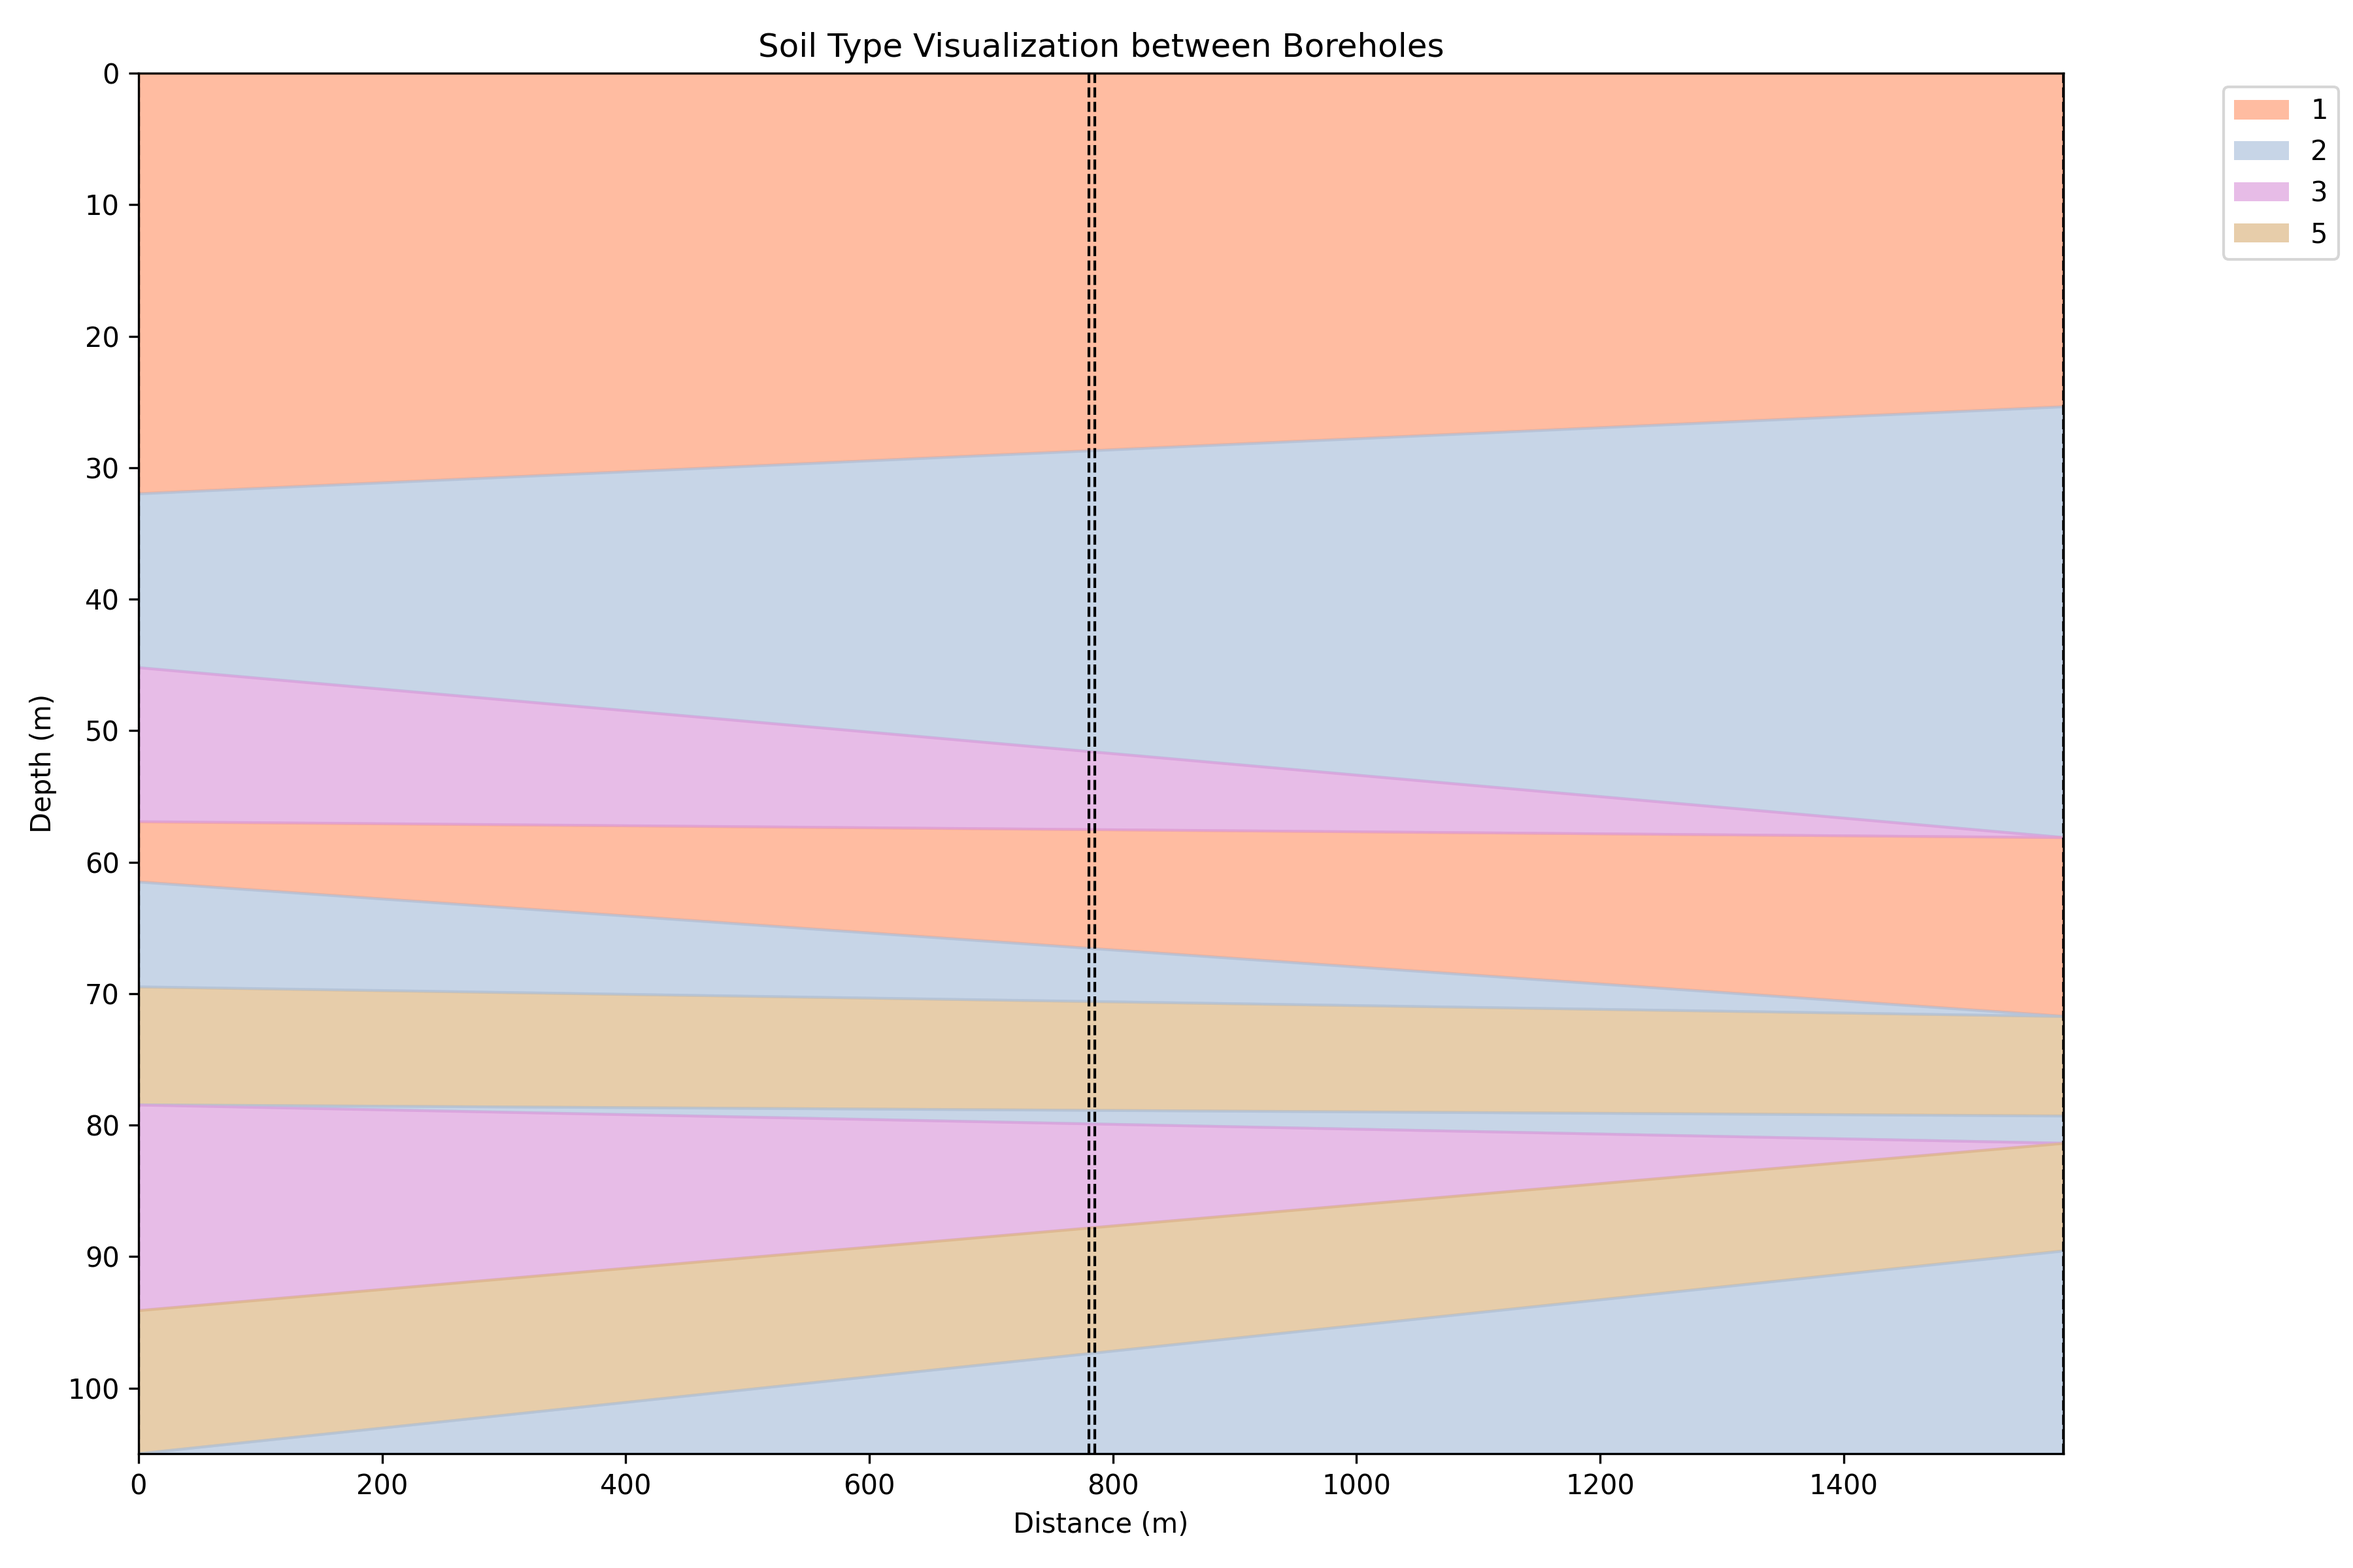
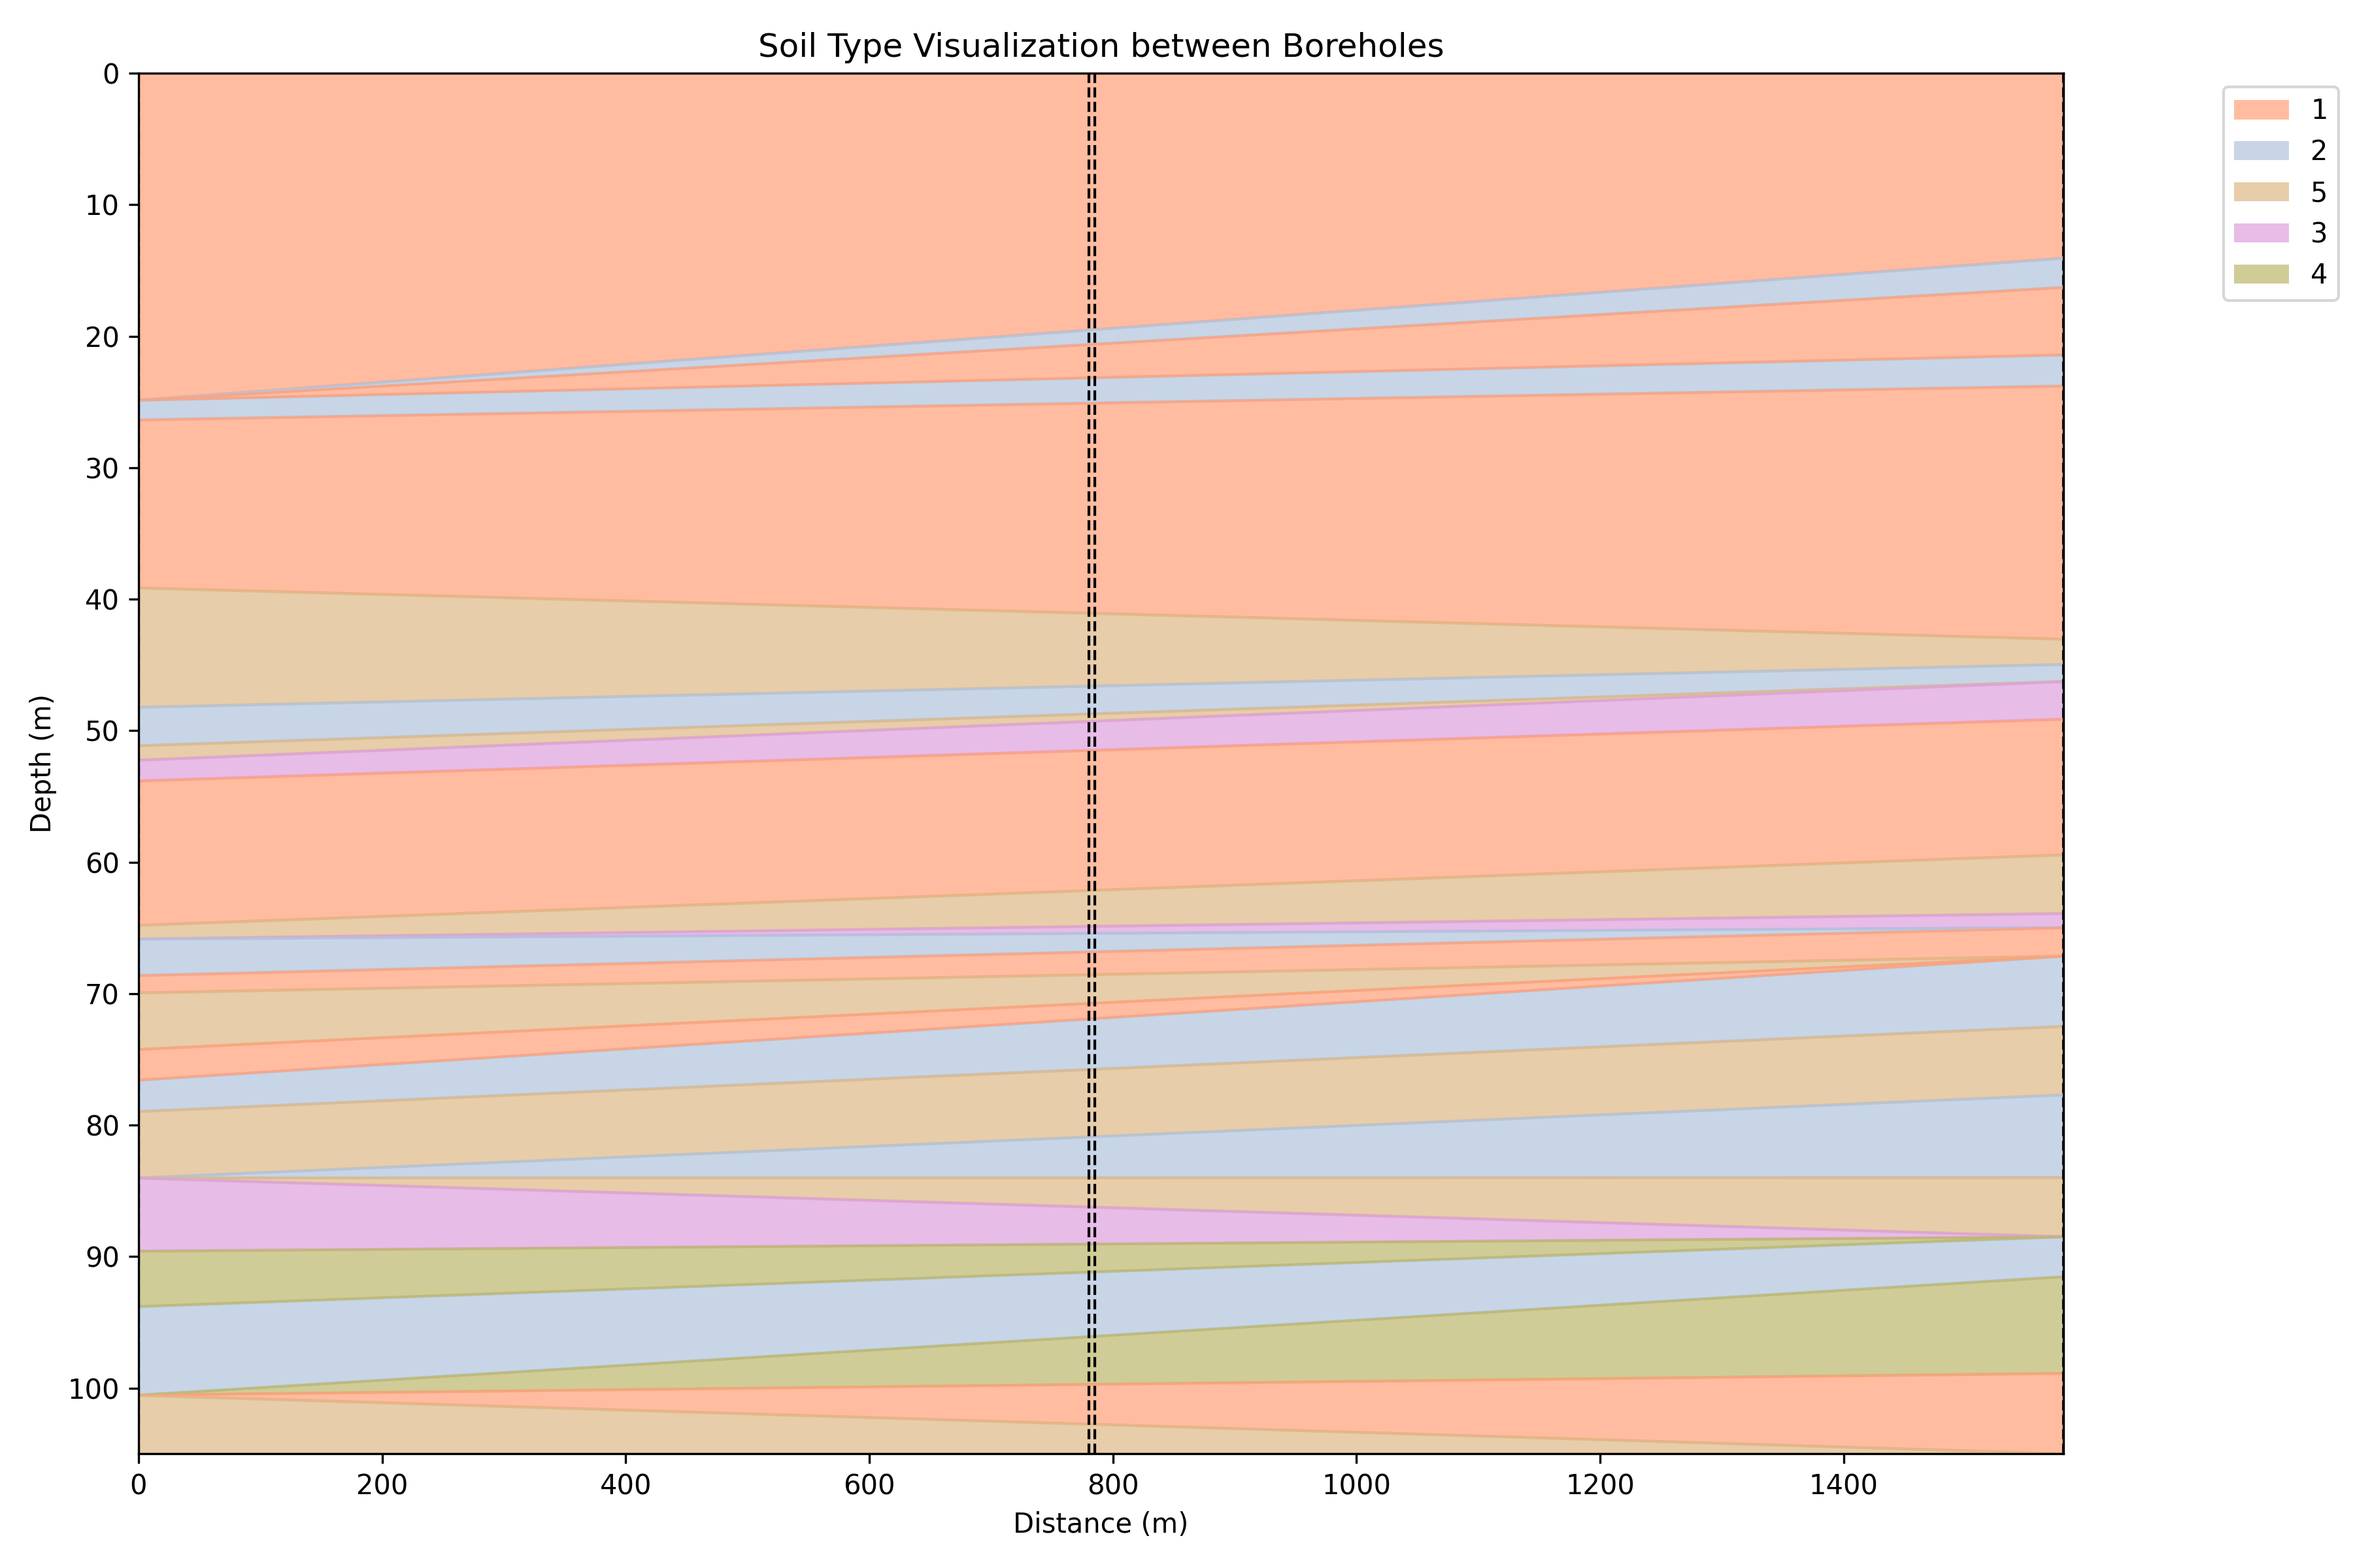
備用111

diff --git a/Data_processing.py b/Data_processing.py
@@ -24,6 +24,8 @@ def get_thickness_threshold():
 
 # 分類土壤類型
 def classify_soil_type(Ic):
+    # 把Ic轉為float
+
     Ic = round(Ic, 2)
     if Ic <= 2.05:
         return 1
@@ -126,6 +128,8 @@ def process_file(file, thickness_threshold):
     df_copy = df.copy()
 
     # 資料處理
+    # 把Ic轉為float
+    df_copy['Ic'] = df_copy['Ic'].replace(' ', 0).astype(float)
     df_copy['Ic'] = df_copy['Ic'].interpolate(method='linear')
     df_copy['Soil Type'] = df_copy['Soil Type'].ffill()
 
